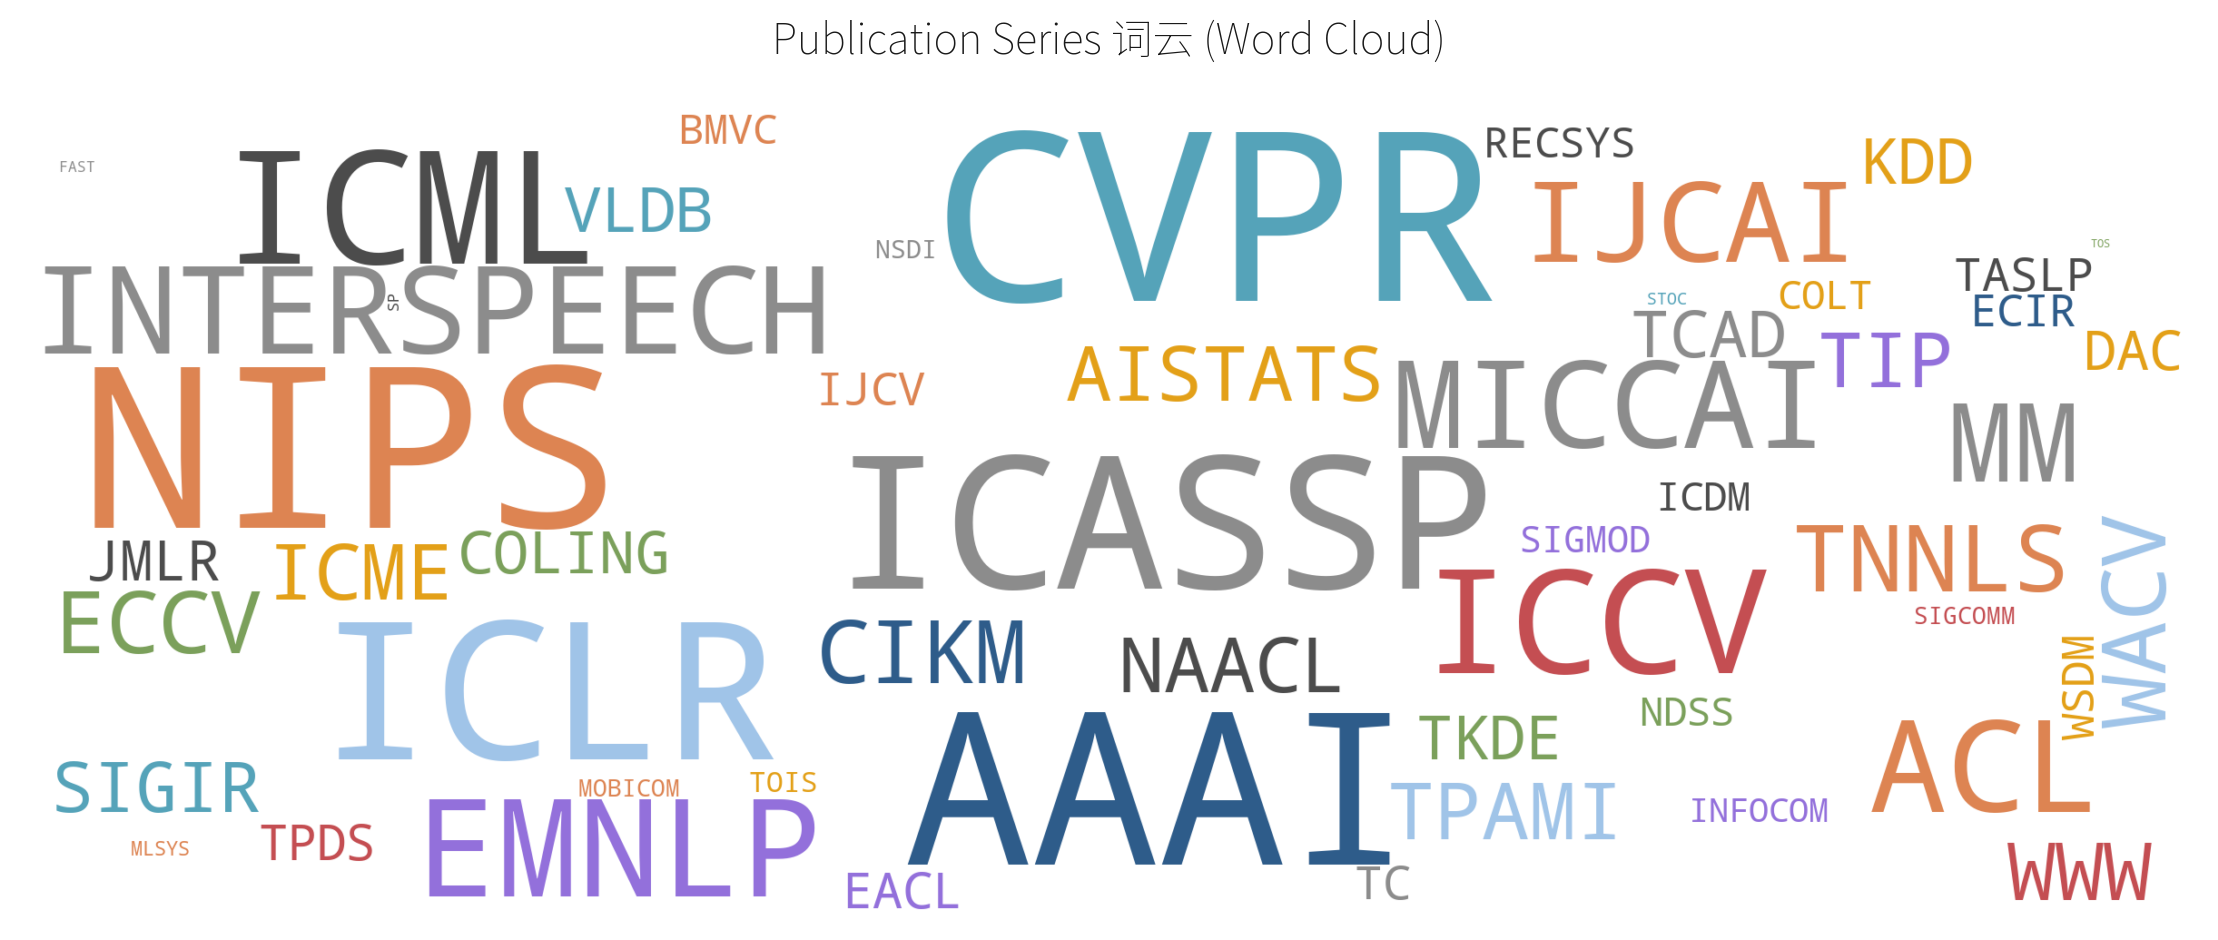
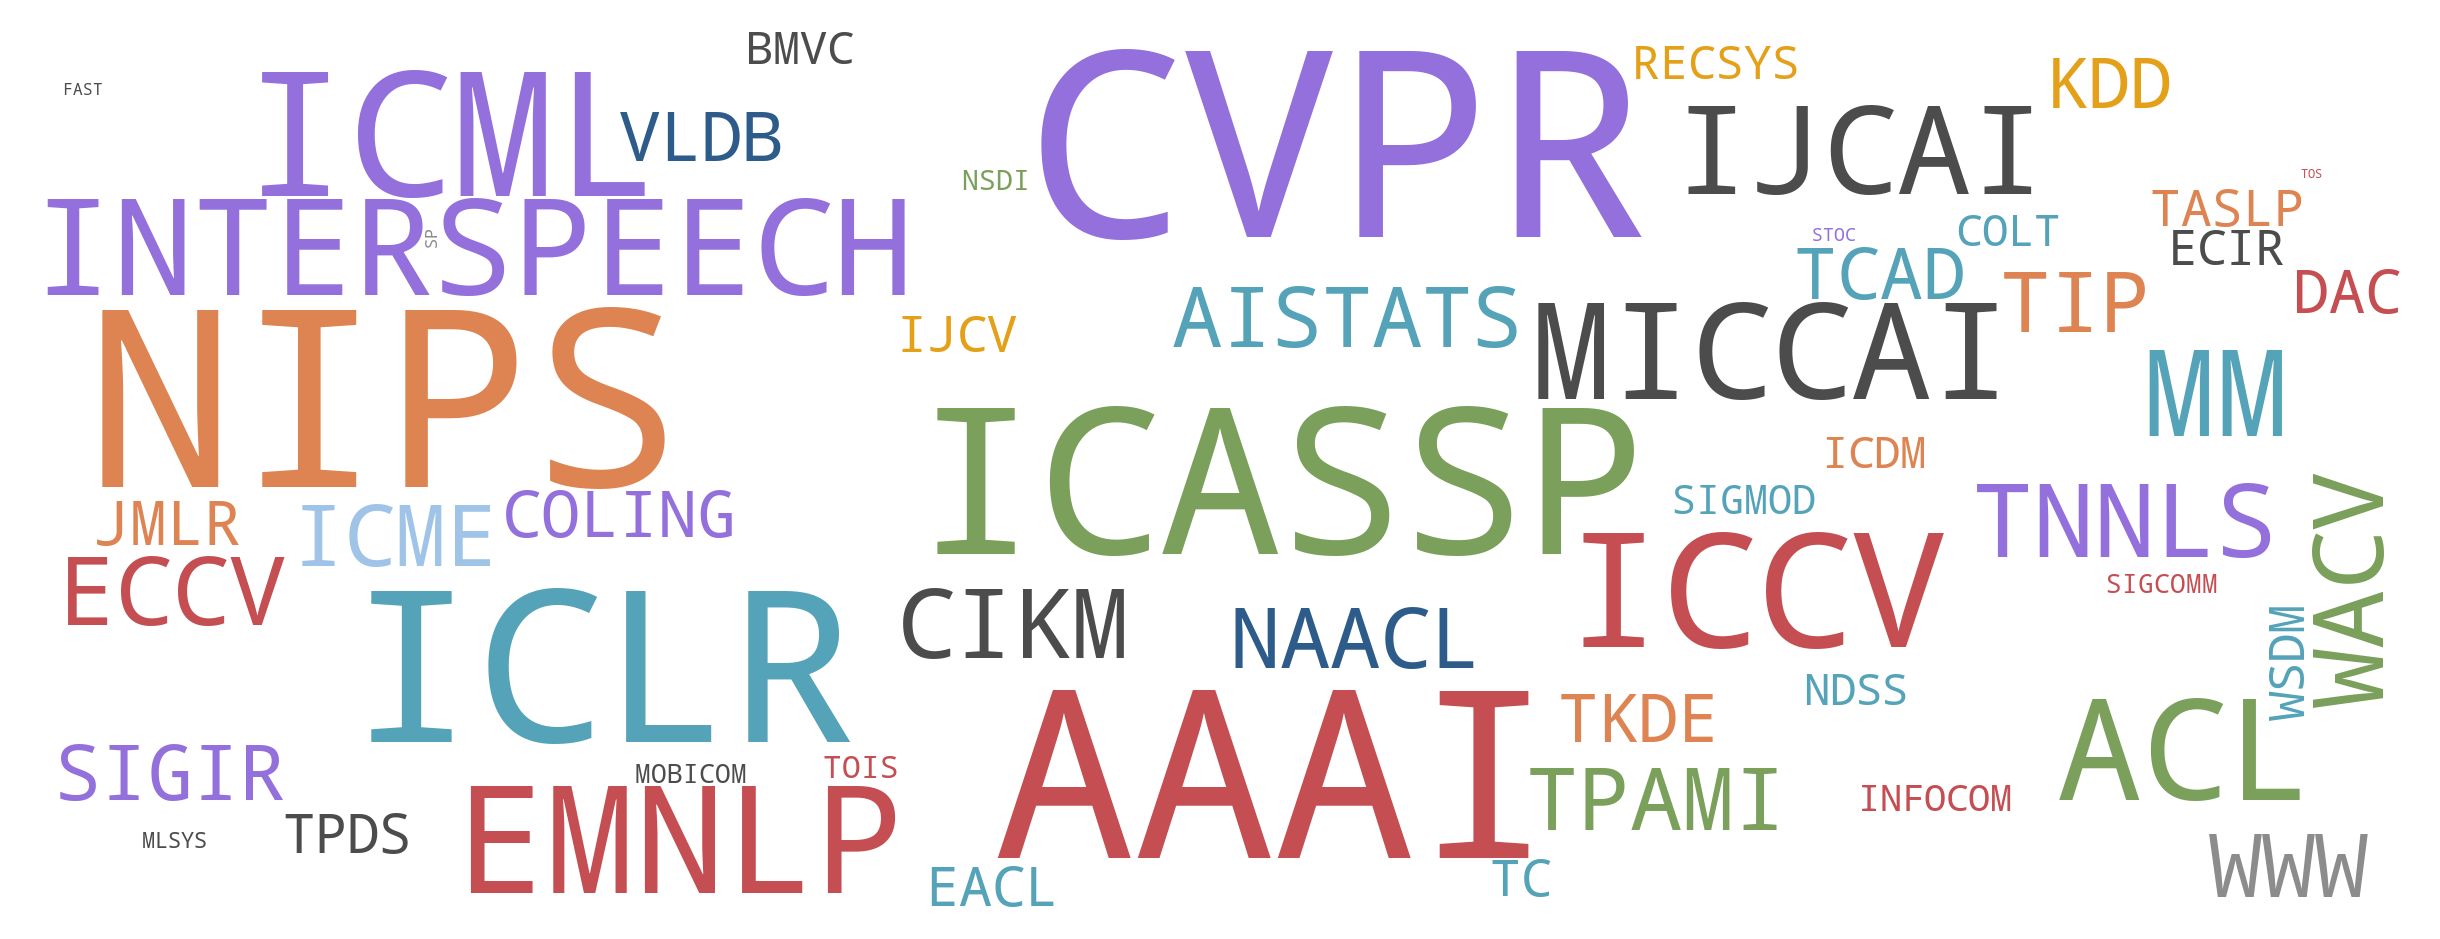
feat(maintain):调整统计图表字号、顺序与词云标题
- stats_overview.png 数字字号从 22 增大至 28，更醒目
- 词云图移除 ax.set_title，不再显示顶部标题
- README 统计区图片顺序调整为：概览 → 词云 → 分类+摘要表格 → 历年趋势

Changed region(s): [[0.0, 0.0309, 0.9955, 0.9883], [0.9022, 0.8956, 0.9644, 0.9574]]

diff --git a/maintain.py b/maintain.py
@@ -239,8 +239,8 @@ def generate_charts(stats: dict):
     n = len(metrics)
     x_positions = [1.25 + i * 2.5 for i in range(n)]
     for (label, value, color), x in zip(metrics, x_positions):
-        ax.text(x, 1.55, value, fontsize=22, fontweight="bold", ha="center", va="center", color=color)
-        ax.text(x, 0.55, label, fontsize=10, ha="center", va="center", color="#444444", linespacing=1.4)
+        ax.text(x, 1.55, value, fontsize=28, fontweight="bold", ha="center", va="center", color=color)
+        ax.text(x, 0.55, label, fontsize=11, ha="center", va="center", color="#444444", linespacing=1.4)
         if x < x_positions[-1]:
             ax.plot([x + 1.25, x + 1.25], [0.25, 1.85], color="#DDDDDD", linewidth=0.8)
 
@@ -278,8 +278,6 @@ def generate_wordcloud(stats: dict):
     fig, ax = plt.subplots(figsize=(12, 4.5))
     ax.imshow(wc, interpolation="bilinear")
     ax.axis("off")
-    ax.set_title("Publication Series 词云 (Word Cloud)", fontsize=15, fontweight="bold",
-                 pad=18, color="#1a1a1a")
     fig.tight_layout(pad=0)
     fig.savefig(os.path.join(stats_dir, "wordcloud.png"), dpi=200, bbox_inches="tight", facecolor="white")
     plt.close(fig)
@@ -406,18 +404,19 @@ def build_stats_section():
         '  <img src="./pics/stats/stats_overview.png" alt="统计概览" width="850" />',
         "</p>",
         "",
+        '<p align="center">',
+        '  <img src="./pics/stats/wordcloud.png" alt="刊物系列词云" width="900" />',
+        "</p>",
+        "",
         "<table>",
         "  <tr>",
         '    <td align="center"><img src="./pics/stats/papers_by_category.png" alt="各领域论文数量" width="500" /></td>',
         '    <td align="center"><img src="./pics/stats/abstract_coverage.png" alt="摘要覆盖情况" width="330" /></td>',
         "  </tr>",
-        "  <tr>",
-        '    <td colspan="2" align="center"><img src="./pics/stats/papers_by_year.png" alt="历年论文收录趋势" width="800" /></td>',
-        "  </tr>",
         "</table>",
         "",
         '<p align="center">',
-        '  <img src="./pics/stats/wordcloud.png" alt="刊物系列词云" width="900" />',
+        '  <img src="./pics/stats/papers_by_year.png" alt="历年论文收录趋势" width="800" />',
         "</p>",
     ]
     return "\n".join(lines)
@@ -430,18 +429,19 @@ def build_stats_section_en():
         '  <img src="./pics/stats/stats_overview.png" alt="Statistics Overview" width="850" />',
         "</p>",
         "",
+        '<p align="center">',
+        '  <img src="./pics/stats/wordcloud.png" alt="Publication Series Word Cloud" width="900" />',
+        "</p>",
+        "",
         "<table>",
         "  <tr>",
         '    <td align="center"><img src="./pics/stats/papers_by_category.png" alt="Papers by Research Field" width="500" /></td>',
         '    <td align="center"><img src="./pics/stats/abstract_coverage.png" alt="Abstract Coverage" width="330" /></td>',
         "  </tr>",
-        "  <tr>",
-        '    <td colspan="2" align="center"><img src="./pics/stats/papers_by_year.png" alt="Annual Paper Collection Trend" width="800" /></td>',
-        "  </tr>",
         "</table>",
         "",
         '<p align="center">',
-        '  <img src="./pics/stats/wordcloud.png" alt="Publication Series Word Cloud" width="900" />',
+        '  <img src="./pics/stats/papers_by_year.png" alt="Annual Paper Collection Trend" width="800" />',
         "</p>",
     ]
     return "\n".join(lines)

diff --git a/README.en.md b/README.en.md
@@ -47,18 +47,19 @@ PaperVault is evolving from a static paper list into a fully-featured, data-rich
   <img src="./pics/stats/stats_overview.png" alt="Statistics Overview" width="850" />
 </p>
 
+<p align="center">
+  <img src="./pics/stats/wordcloud.png" alt="Publication Series Word Cloud" width="900" />
+</p>
+
 <table>
   <tr>
     <td align="center"><img src="./pics/stats/papers_by_category.png" alt="Papers by Research Field" width="500" /></td>
     <td align="center"><img src="./pics/stats/abstract_coverage.png" alt="Abstract Coverage" width="330" /></td>
   </tr>
-  <tr>
-    <td colspan="2" align="center"><img src="./pics/stats/papers_by_year.png" alt="Annual Paper Collection Trend" width="800" /></td>
-  </tr>
 </table>
 
 <p align="center">
-  <img src="./pics/stats/wordcloud.png" alt="Publication Series Word Cloud" width="900" />
+  <img src="./pics/stats/papers_by_year.png" alt="Annual Paper Collection Trend" width="800" />
 </p>
 
 <!-- stats-end -->

diff --git a/README.md b/README.md
@@ -47,18 +47,19 @@ PaperVault 正在将其从一个静态论文清单工具逐步建设为一个功
   <img src="./pics/stats/stats_overview.png" alt="统计概览" width="850" />
 </p>
 
+<p align="center">
+  <img src="./pics/stats/wordcloud.png" alt="刊物系列词云" width="900" />
+</p>
+
 <table>
   <tr>
     <td align="center"><img src="./pics/stats/papers_by_category.png" alt="各领域论文数量" width="500" /></td>
     <td align="center"><img src="./pics/stats/abstract_coverage.png" alt="摘要覆盖情况" width="330" /></td>
   </tr>
-  <tr>
-    <td colspan="2" align="center"><img src="./pics/stats/papers_by_year.png" alt="历年论文收录趋势" width="800" /></td>
-  </tr>
 </table>
 
 <p align="center">
-  <img src="./pics/stats/wordcloud.png" alt="刊物系列词云" width="900" />
+  <img src="./pics/stats/papers_by_year.png" alt="历年论文收录趋势" width="800" />
 </p>
 
 <!-- stats-end -->
